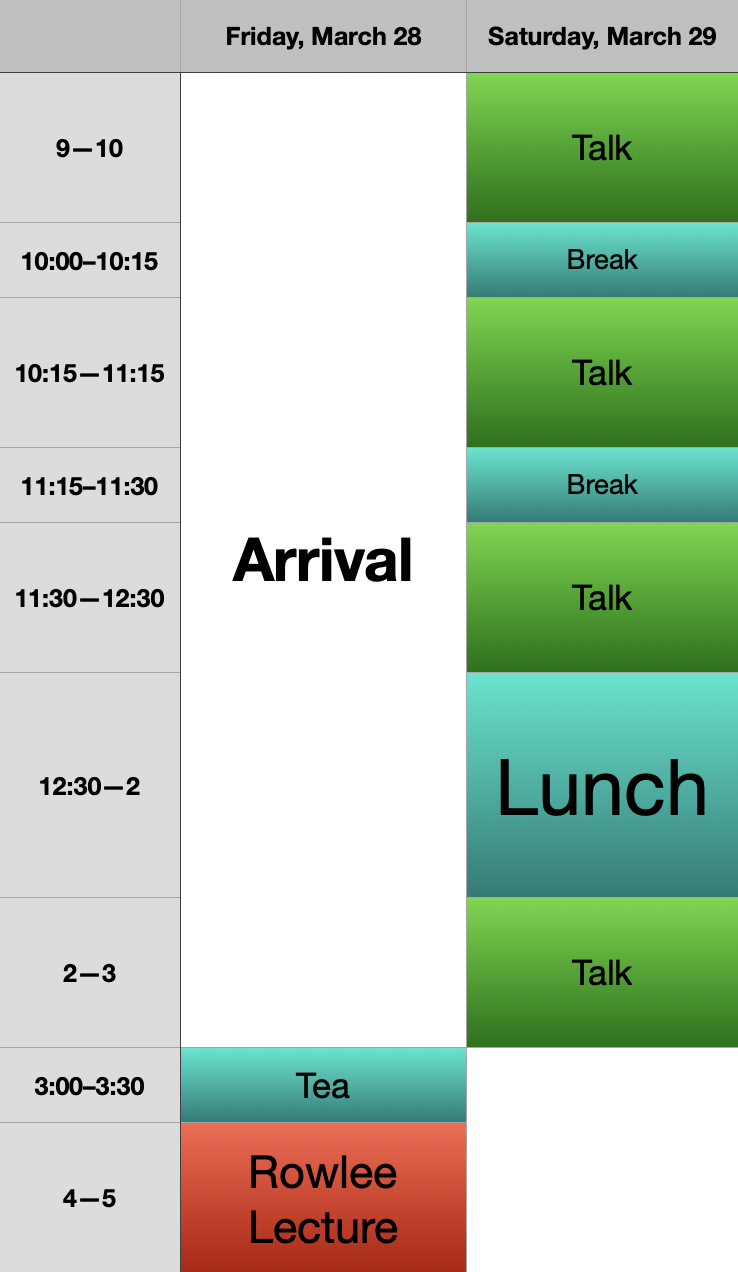
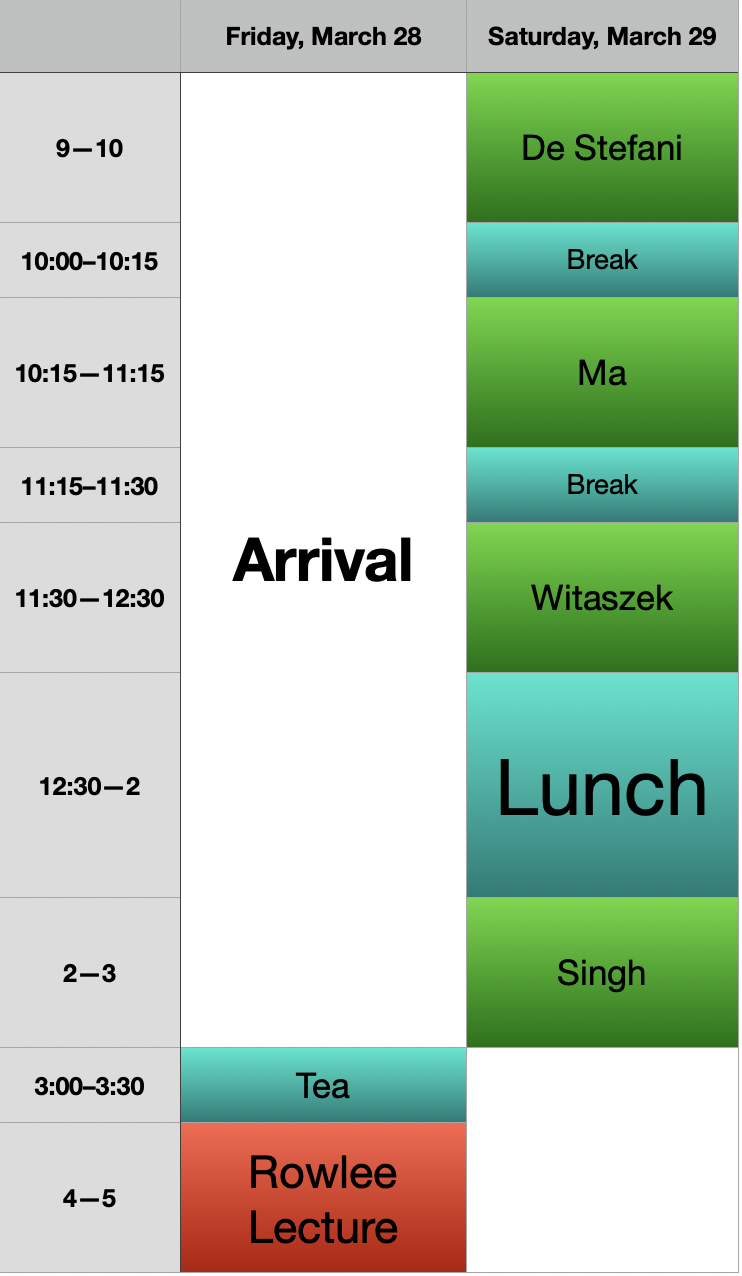
added abstracts and schedule

diff --git a/conferences/bhargav.html b/conferences/bhargav.html
@@ -59,7 +59,7 @@ The <a href=https://math.unl.edu>University of Nebraska-Lincoln Math department<
 
 <li><a href=https://a-destefani.github.io/ads/>Alessandro De Stefani</a> (University of Genova)</li>
 
-<li><a href=https://web.math.princeton.edu/~jw0269/>Jakub Witaszek</a> (Northwestern University)</li>
+<li><a href=https://web.math.princeton.edu/~jw0269/>Jakub Witaszek</a> (Princeton University)</li>
 
 <li><a href=https://www.math.purdue.edu/~ma326/>Linquan Ma</a> (Purdue University)</li>
 
@@ -93,7 +93,6 @@ Participants should plan to arrive before 3 pm on March 28. The conference will 
 <br><br>
 
 <center>
-Tentative schedule:
 
 <br>
 
@@ -108,24 +107,70 @@ All talks will be held in Avery 115.
 <br><br><br>
 
 
-<!--
+
+
 <u>Abstracts:</u>
 
 <br><br><br>
 
-<b>Branden Stone</b> (Georgia Tech Research Institute)
+<b><a href=https://a-destefani.github.io/ads/>Alessandro De Stefani</a></b> (University fo Genova, Italy)
 <br>
 <br>
-Life as a defense contractor and the math used
+
+Connectedness of the associated graded ring
+
 <br><br>
-Abstract: DoD projects have a wide variety of applications. As such, the technology needed is not limited to particular fields. Throughout this talk we will discuss the expectations and work cycle of a defense contractor at GTRI. Furthermore, we will highlight some engineering tools and mathematical principles utilized.
+
+Abstract: In this talk we will discuss how certain connectedness properties of a complete local ring R descend to its associated graded ring G. The main tool we use is a homogenization technique which produces a complete "Gr&ouml;bner-like" deformation of R with special fibre the completion of G. The cases of equal and mixed characteristic need to be treated separately: we will discuss similarities and differences. Time permitting, we will also discuss some consequences of these results on certain numerical invariants of R. This talk is based on joint work with Maria Evelina Rossi and Matteo Varbaro.
+
 
 <br><br><br><br>
 
---!>
+<b><a href=https://www.math.purdue.edu/~ma326/>Linquan Ma</a></b> (Purdue University)
+<br>
+<br>
 
+Perfectoid pure singularities
 
 <br><br>
+
+Abstract: We introduce a mixed characteristic analog of F-pure singularities, which we call perfectoid pure singularities. We will present some basic and expected properties of these singularities and show their connections with log canonical and Du Bois singularities. We will discuss some examples and many related open questions. This talk is based on joint work with Bhargav Bhatt, Zsolt Patakfalvi, Karl Schwede, Kevin Tucker, Joe Waldron, and Jakub Witaszek.
+
+
+<br><br><br><br>
+
+<b><a href=https://web.math.princeton.edu/~jw0269/>Jakub Witaszek</a></b> (Princeton University)
+<br>
+<br>
+
+Hodge Theory of Singularities in Positive Characteristic
+
+<br><br>
+
+Abstract: I will start by reviewing various Hodge-theoretic invariants of complex singularities. After that, I will discuss an approach to interpreting these invariants using methods from positive characteristic. This is based on joint work with Tatsuro Kawakami.
+
+
+<br><br><br><br>
+
+<b><a href=https://www.math.utah.edu/~singh/>Anurag K. Singh</a></b> (University of Utah)
+<br>
+<br>
+
+Are determinantal rings pure subrings of polynomial rings?
+
+<br><br>
+
+Abstract:
+Let G be a linearly reductive group over a field K, with a linear action on a polynomial ring over K. Then the invariant ring is a pure subring of the polynomial ring; many key properties of classical invariant rings of characteristic zero, as in the Hochster-Roberts theorem or in Boutot's theorem, follow from purity.
+
+The classical invariant rings that we primarily have in mind here are determinantal rings, symmetric determinantal rings, and rings defined by pfaffians. It is natural to ask whether, in the case of positive characteristic, these are pure subrings of polynomial rings. This remains largely unresolved, though positive answers would be very useful.
+
+It turns out that the analogous question over the rings of integers or over the ring of p-adic integers can be answered completely; this is joint work with Jack Jeffries.
+
+
+
+
+<br><br><br><br>
 
 <a id="Local">
 <b>Travel information:</b>
